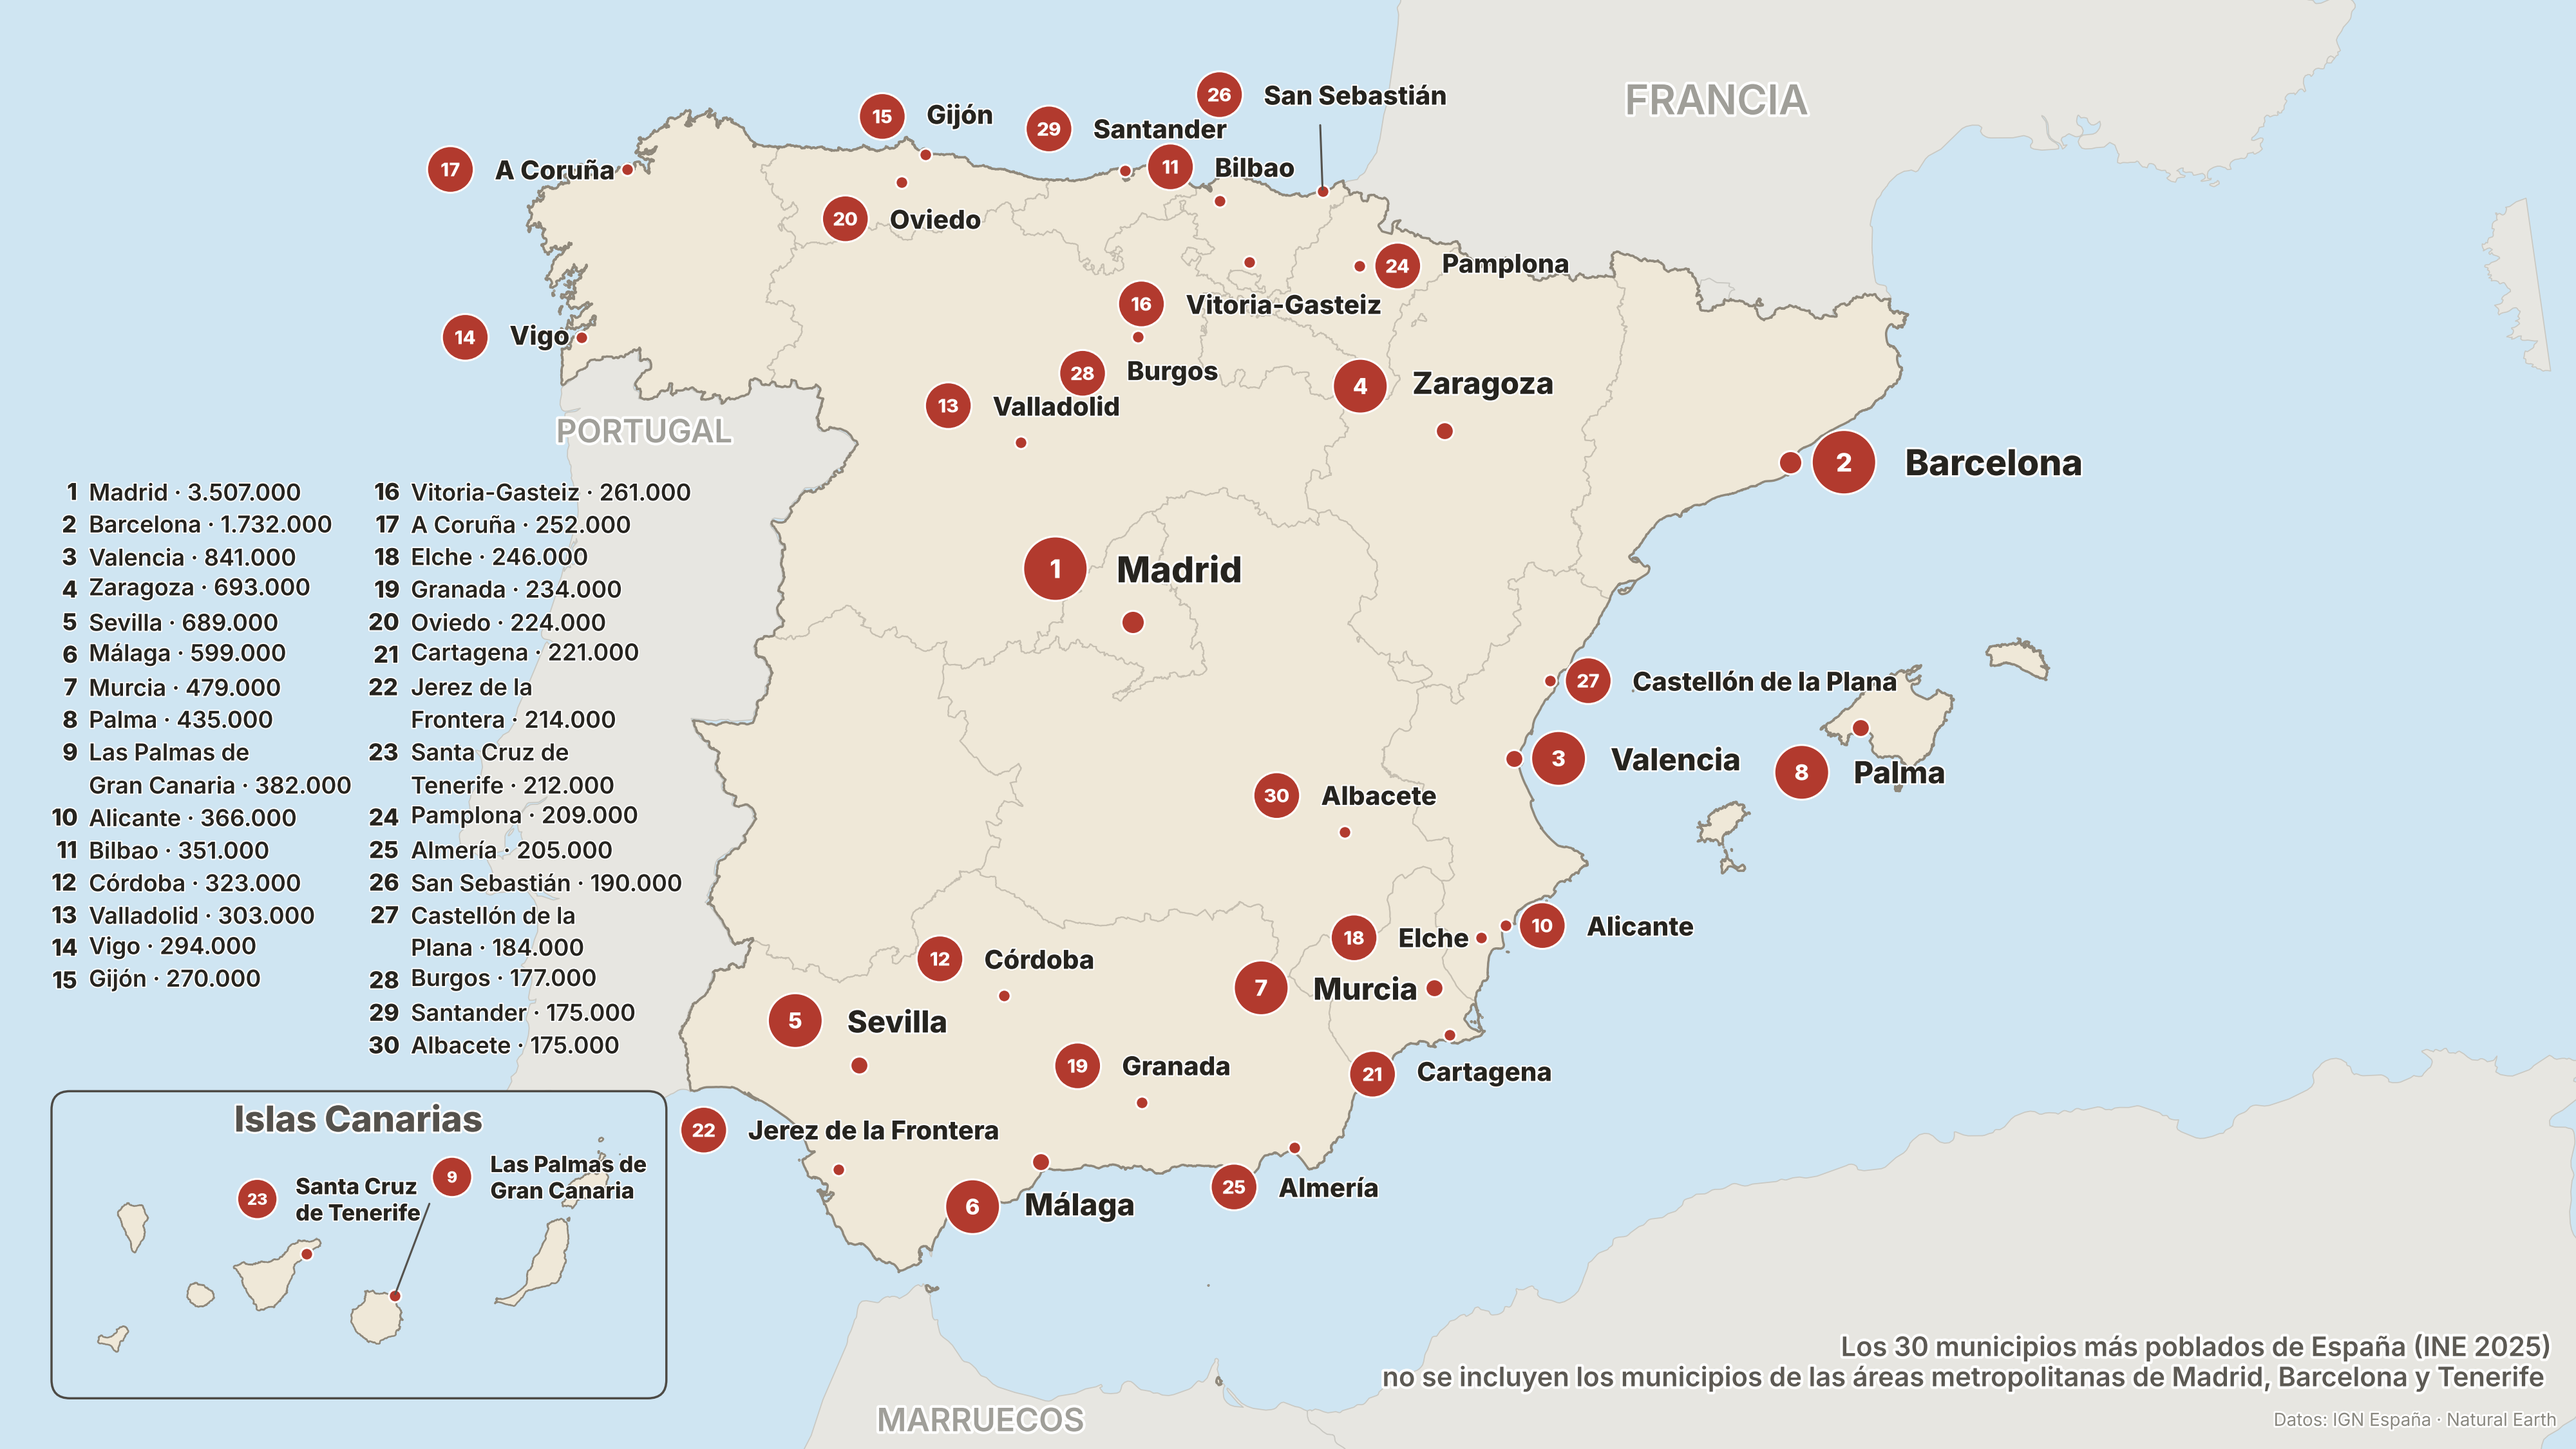
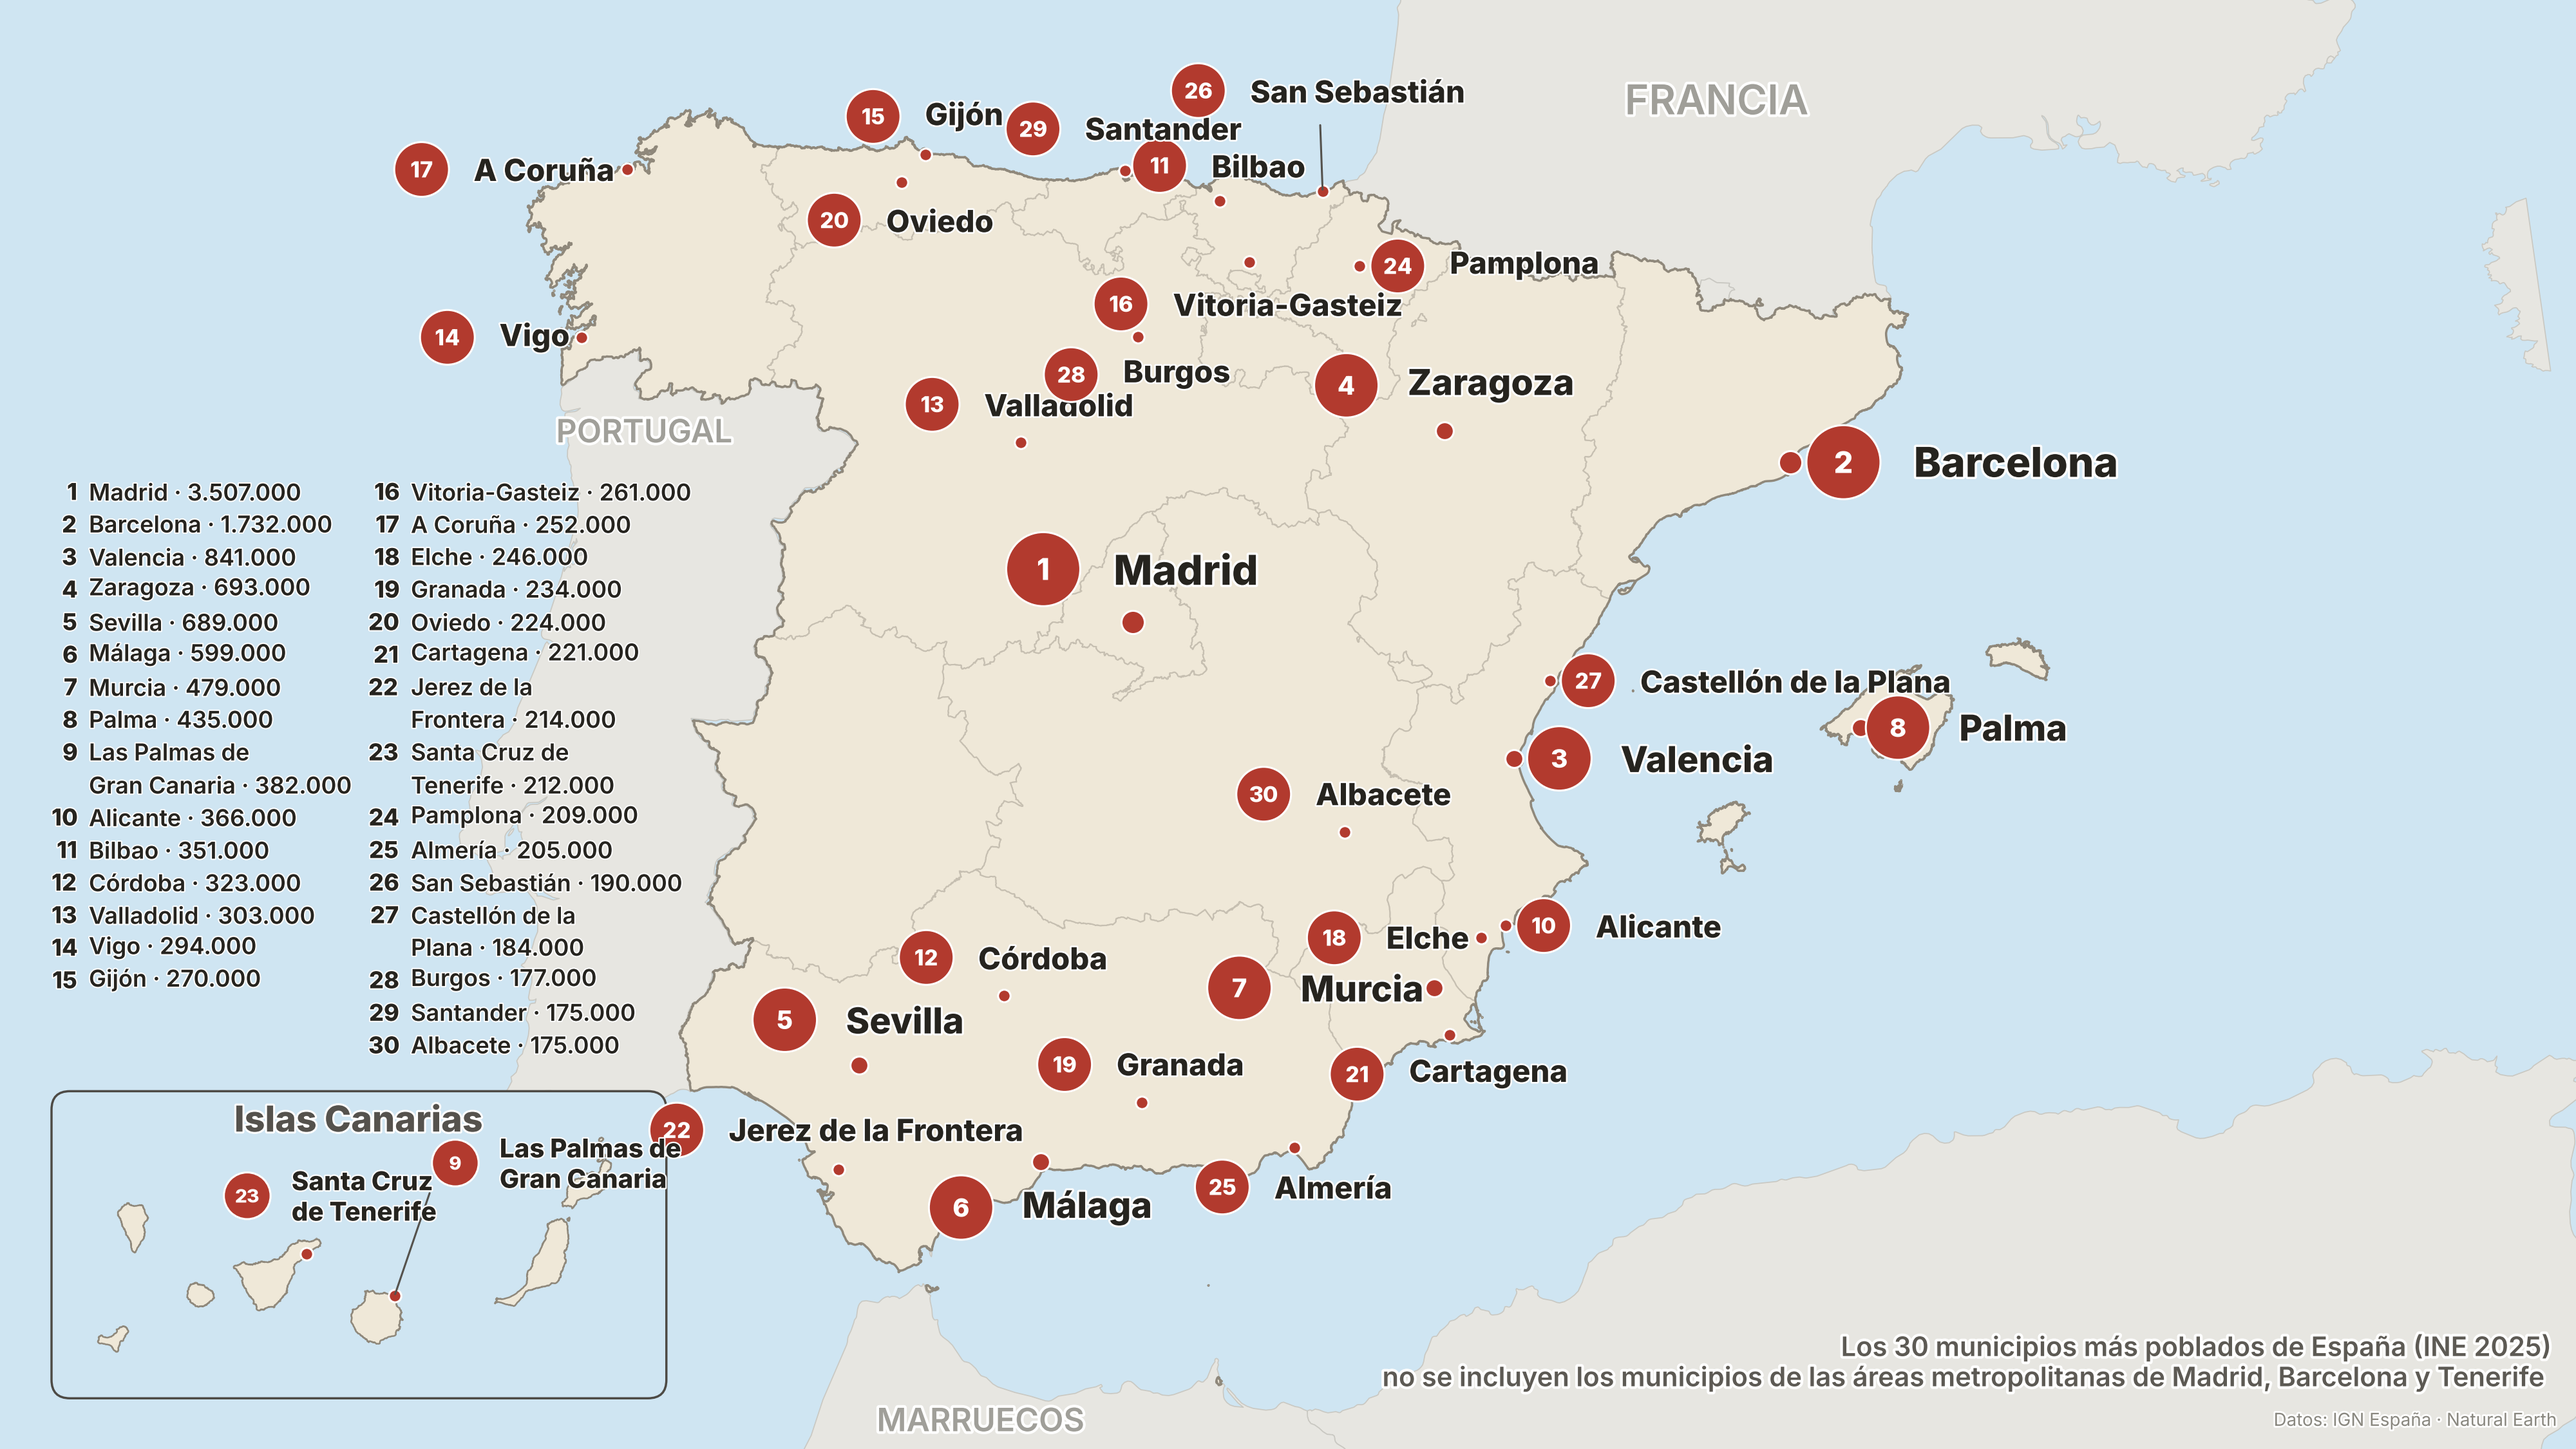
spain-ciudades: bigger labels (46/40/34), text tighter to the dots
Tier label sizes up from 40/34/29; the two pinned Canary labels follow
(25 -> 29). All plain dx/dy offsets scaled down ~25% so the names hug
their dots at the new sizes. Palma hangs east of its dot so the larger
'Valencia' clears its badge, and the Santa Cruz wrap moves west in the
inset so badge 9 no longer clips it.

Claude-Session: https://claude.ai/code/session_01K1ycjVM1CrxLDTjX7Gs5kG

diff --git a/tvmaps/maps_ciudades.py b/tvmaps/maps_ciudades.py
@@ -17,9 +17,9 @@ DOT_EDGE = "#ffffff"
 
 # Population tiers: (min population, dot ms, label size).
 TIERS = [
-    (1_000_000, 26, 40),
-    (400_000, 20, 34),
-    (0, 14, 29),
+    (1_000_000, 26, 46),
+    (400_000, 20, 40),
+    (0, 14, 34),
 ]
 
 # PORTUGAL is moved north (horizontal, near Braga) because the usual
@@ -54,40 +54,40 @@ class CityLabel:
 
 
 CITY_LABELS = {
-    "Madrid": CityLabel(dy=16, va="bottom"),
-    "Barcelona": CityLabel(dx=16, ha="left"),                 # sea east
-    "Valencia": CityLabel(dx=13, ha="left"),                  # sea east
-    "Zaragoza": CityLabel(dy=13, va="bottom"),
-    "Sevilla": CityLabel(dy=13, va="bottom"),
-    "Málaga": CityLabel(dy=-13, va="top"),                    # sea south
-    "Murcia": CityLabel(dx=-11, ha="right"),
-    "Palma": CityLabel(dy=-13, va="top"),                     # bay south
+    "Madrid": CityLabel(dy=12, va="bottom"),
+    "Barcelona": CityLabel(dx=12, ha="left"),                 # sea east
+    "Valencia": CityLabel(dx=10, ha="left"),                  # sea east
+    "Zaragoza": CityLabel(dy=10, va="bottom"),
+    "Sevilla": CityLabel(dy=10, va="bottom"),
+    "Málaga": CityLabel(dy=-10, va="top"),                    # sea south
+    "Murcia": CityLabel(dx=-8, ha="right"),
+    "Palma": CityLabel(dx=4, ha="left"),                     # east, over the island
     "Las Palmas de Gran Canaria": CityLabel(         # callout up-right, clear
-        tx=28, ty=74, va="bottom", ha="left", size=25,   # of the Santa Cruz
+        tx=28, ty=82, va="bottom", ha="left", size=29,   # of the Santa Cruz
         wrap="Las Palmas de\nGran Canaria"),              # label and box edge
-    "Alicante": CityLabel(dx=10, ha="left"),                  # sea east
-    "Bilbao": CityLabel(dy=8, va="bottom"),                   # sea above
-    "Córdoba": CityLabel(dy=10, va="bottom"),
-    "Valladolid": CityLabel(dy=10, va="bottom"),
-    "Vigo": CityLabel(dx=-10, ha="right"),                    # sea west
-    "Gijón": CityLabel(dy=11, va="bottom"),                   # sea above
-    "Vitoria-Gasteiz": CityLabel(dy=-14, va="top"),
-    "A Coruña": CityLabel(dx=-10, ha="right"),                # sea west
-    "Elche": CityLabel(dx=-10, ha="right"),
-    "Granada": CityLabel(dy=10, va="bottom"),
-    "Oviedo": CityLabel(dy=-10, va="top"),
-    "Cartagena": CityLabel(dy=-12, va="top"),                 # sea south
-    "Jerez de la Frontera": CityLabel(dy=12, va="bottom"),
+    "Alicante": CityLabel(dx=8, ha="left"),                  # sea east
+    "Bilbao": CityLabel(dy=6, va="bottom"),                   # sea above
+    "Córdoba": CityLabel(dy=8, va="bottom"),
+    "Valladolid": CityLabel(dy=8, va="bottom"),
+    "Vigo": CityLabel(dx=-8, ha="right"),                    # sea west
+    "Gijón": CityLabel(dy=8, va="bottom"),                   # sea above
+    "Vitoria-Gasteiz": CityLabel(dy=-11, va="top"),
+    "A Coruña": CityLabel(dx=-8, ha="right"),                # sea west
+    "Elche": CityLabel(dx=-8, ha="right"),
+    "Granada": CityLabel(dy=8, va="bottom"),
+    "Oviedo": CityLabel(dy=-8, va="top"),
+    "Cartagena": CityLabel(dy=-9, va="top"),                 # sea south
+    "Jerez de la Frontera": CityLabel(dy=9, va="bottom"),
     "Santa Cruz de Tenerife": CityLabel(              # over sea NW of Tenerife
-        dx=-52, dy=26, va="bottom", ha="left", size=25,
+        dx=-62, dy=26, va="bottom", ha="left", size=29,
         wrap="Santa Cruz\nde Tenerife"),
-    "Pamplona": CityLabel(dx=11, ha="left"),
-    "Almería": CityLabel(dy=-12, va="top"),                   # sea south
+    "Pamplona": CityLabel(dx=8, ha="left"),
+    "Almería": CityLabel(dy=-9, va="top"),                   # sea south
     "San Sebastián": CityLabel(tx=-2, ty=55, va="bottom"),    # callout to sea
-    "Castellón de la Plana": CityLabel(dx=11, ha="left"),     # sea east
-    "Burgos": CityLabel(dy=-10, va="top"),
-    "Santander": CityLabel(dy=14, va="bottom"),               # sea above
-    "Albacete": CityLabel(dy=10, va="bottom"),
+    "Castellón de la Plana": CityLabel(dx=8, ha="left"),     # sea east
+    "Burgos": CityLabel(dy=-8, va="top"),
+    "Santander": CityLabel(dy=11, va="bottom"),               # sea above
+    "Albacete": CityLabel(dy=8, va="bottom"),
 }
 
 
